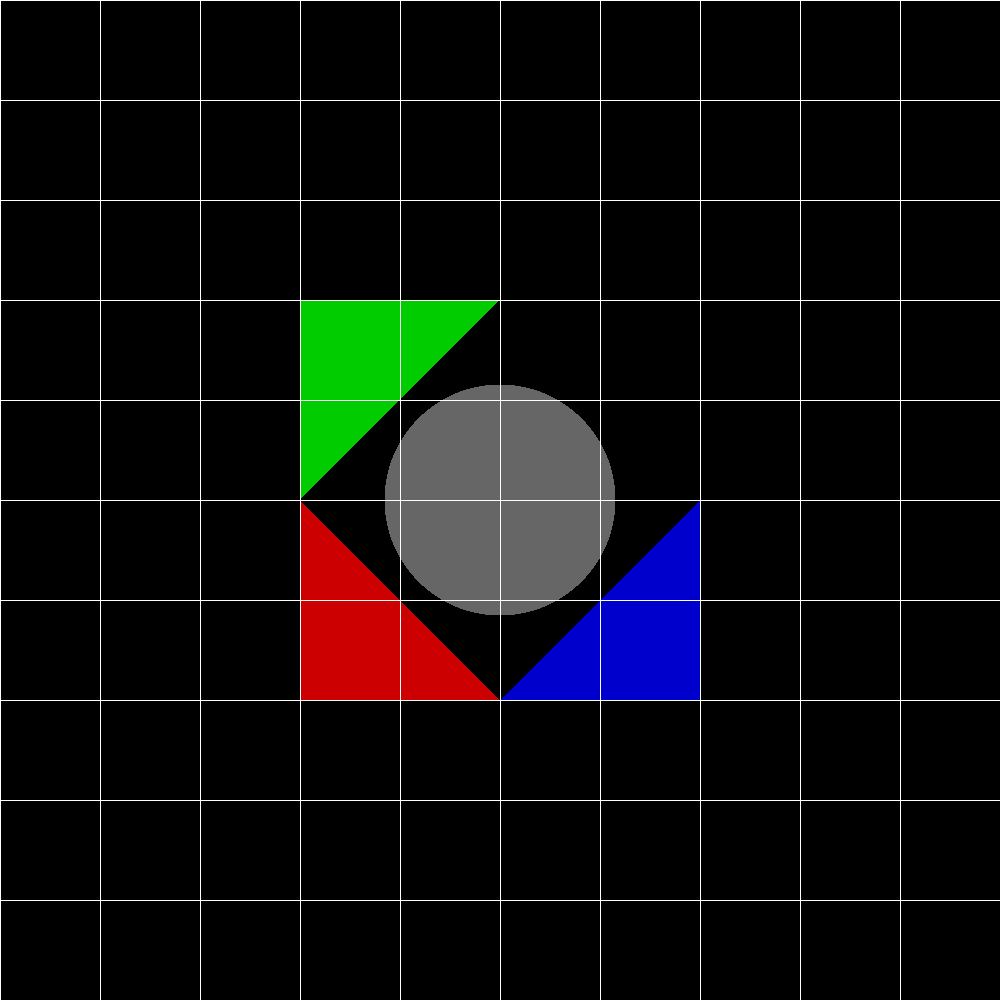
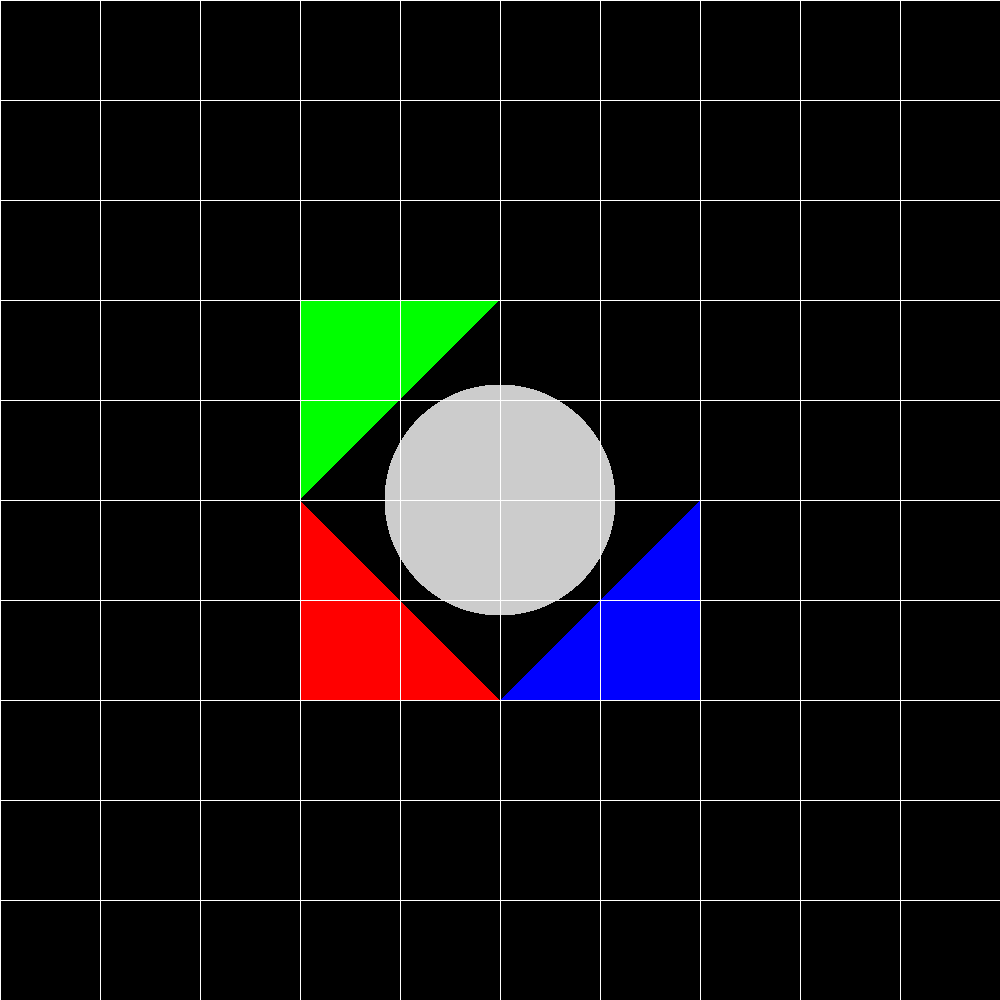
stage 6 wuthout commend

Changed region(s): [[0.279, 0.279, 0.713, 0.713]]

diff --git a/src/renderer/SimpleRayTracer.java b/src/renderer/SimpleRayTracer.java
@@ -9,6 +9,8 @@ import scene.Scene;
 import java.util.LinkedList;
 import java.util.List;
 
+import static primitives.Util.alignZero;
+
 /**
  * A basic ray tracer that computes the color of the closest intersection point of a ray with scene geometries.
  */
@@ -45,38 +47,52 @@ public class SimpleRayTracer extends RayTracerBase {
         Intersection closestintersection = ray.findClosestIntersection(intersections);
 
         // Return the color at the closest intersection point
-        return calcColor(closestintersection);
+        return calcColor(closestintersection,ray);
     }
-
 
     /**
-     * Calculates the color at a given point.
-     * Currently returns only the ambient light intensity as a placeholder.
+     * Calculates the color at the intersection point.
      *
-     * @param intersection the point at which to calculate color
-     * @return the ambient light color at the given point
+     * @param intersection the intersection object
+     * @param ray          the ray that hit the object
+     * @return the color at the intersection point
      */
-    private Color calcColor(Intersection intersection) {
-        Double3 k=intersection.geometry.getMaterial().Ka;
-        return scene.ambientLight.getIntensity().scale(k).add(intersection.geometry.getEmission());
+    private Color calcColor(Intersection intersection, Ray ray) {
+        // Preprocess data: set normal, ray direction, dot product
+        if (!preprocessIntersection(intersection, ray.getDirection()))
+            return Color.BLACK; // No local effects → return black
+
+        Double3 kA = intersection.geometry.getMaterial().Ka;
+        Color c = scene.ambientLight.getIntensity().scale(kA);
+
+        c = c.add(calcColorLocalEffects(intersection));
+
+        return c;
+        // Start with ambient light + emission
+//        Color color = scene.ambientLight.getIntensity()
+//                .scale(intersection.material.Ka)
+//                .add(calcColorLocalEffects(intersection));
+//
+//        return color;
     }
+
+
 /// need check
     public boolean preprocessIntersection(Intersection intersection, Vector rayDir) {
-        intersection.rayDir = rayDir;
+        intersection.rayDir = rayDir.scale(-1);
         intersection.normal = intersection.geometry.getNormal(intersection.point);
-        intersection.scaleNR = intersection.normal.dotProduct(rayDir);
-        if (Util.isZero( intersection.scaleNR ))
+        //intersection.scaleNR = intersection.normal.dotProduct(rayDir);
+        intersection.scaleNR = alignZero(intersection.rayDir.dotProduct(intersection.normal));
+        if (intersection.scaleNR == 0)
             return false;
-      return true;
+        return true;
     }
 
     public boolean setLightSource(Intersection intersection, LightSource lightSource) {
         intersection.lightSource = lightSource;
         intersection.lightDir = lightSource.getL(intersection.point).normalize();
-        intersection.scaleNL=intersection.lightDir.dotProduct(intersection.normal);
-        if (Util.isZero(intersection.scaleNL))
-            return false;
-        return true;
+        intersection.scaleNL = alignZero(intersection.lightDir.dotProduct(intersection.normal));
+        return (intersection.scaleNL * intersection.scaleNR > 0);
     }
 
     /**
@@ -86,22 +102,28 @@ public class SimpleRayTracer extends RayTracerBase {
      * @return the local lighting color contribution
      */
     private Color calcColorLocalEffects(Intersection intersection) {
-        Color result = intersection.geometry.getEmission();
-
-        for (var l : scene.light) {
-            if (!setLightSource(intersection, l))
-                continue;
-
-            Color lightIntensity = l.getIntensity (intersection.point);
-            Double3 diffusive = calcDiffusive(intersection);
-            Double3 specular = calcSpecular(intersection);
-            Double3 totalComponents = diffusive.add(specular);
-
-            Color contribution = lightIntensity.scale(totalComponents);
-            result = result.add(contribution);
+        if (intersection == null) {
+            return scene.backgroundColor;
         }
+        Material material = intersection.material;
+        Color color = intersection.geometry.getEmission();
 
-        return result;
+        color = color.add(scene.ambientLight.getIntensity().scale(material.Ka));
+
+        for (LightSource lightSource : scene.light) {
+            {
+                if(!setLightSource(intersection, lightSource)) {
+                    continue;
+                }
+
+                // Compute light intensity at the intersection point
+                Color iL = lightSource.getIntensity(intersection.point);
+
+                // Add contribution from diffusive and specular effects
+                color = color.add(iL.scale(calcDiffusive(intersection))).add(iL.scale(calcSpecular(intersection)));
+            }
+        }
+        return color;
     }
     /**
      * Calculates the specular component of the light at the intersection point.
@@ -113,17 +135,11 @@ public class SimpleRayTracer extends RayTracerBase {
         Vector n = intersection.normal;
         Vector l = intersection.lightDir;
         Vector v = intersection.rayDir.normalize(); // inverse of ray direction
+        Vector r = l.subtract(n.scale(2 * intersection.scaleNL));
+        double rv = Math.max(0, (r.dotProduct(v) * -1));
+        double specularFactor = Math.pow(rv, intersection.material.nSh);
 
-        // Calculate reflection vector R = L - 2 * (N·L) * N
-        Vector r = l.subtract(n.scale(2 * intersection.scaleNL)).normalize();
-
-        // Calculate R·V (viewer direction)
-        double rv = r.dotProduct(v);
-        if (rv <= 0)
-            return Double3.ZERO; // no specular if angle > 90 degrees
-
-        // Calculate specular component: kS * (R·V)^nShininess
-        return intersection.material.Ks.scale(Math.pow(rv, intersection.material.nSh));
+        return intersection.material.Ks.scale(specularFactor);
     }
     /**
      * Calculates the diffusive component of the light at the intersection point.
@@ -132,8 +148,13 @@ public class SimpleRayTracer extends RayTracerBase {
      * @return the diffusive component as Double3
      */
     private Double3 calcDiffusive(Intersection intersection) {
-        // According to Phong model: kD * max(0, N·L)
-        double nl = Math.max(0, intersection.scaleNL); // ensure non-negative
-        return intersection.material.Kd.scale(nl);
+        if (intersection.scaleNL < 0) {
+            return intersection.material.Kd.scale(intersection.scaleNL * -1);
+        }
+        return intersection.material.Kd.scale(intersection.scaleNL);
     }
+
+
+
+
 }

diff --git a/unittest/primitives/LightsTests.java b/unittest/primitives/LightsTests.java
@@ -10,6 +10,8 @@ import renderer.Camera;
 import renderer.RayTracerType;
 import scene.Scene;
 
+import javax.imageio.ImageWriter;
+
 /**
  * Test rendering a basic image
  * @author Dan Zilberstein
@@ -199,6 +201,47 @@ class LightsTests {
          .build() //
          .renderImage() //
          .writeToImage("lightTrianglesSpotSharp");
+   }
+
+
+
+   /// /////////////////////////////////////////////////////////
+   /** Produce a picture of a sphere lighted by multiple light sources */
+   @Test
+   void sphereMultipleLights() {
+      scene1.geometries.add(sphere);
+
+      // Adding multiple light sources
+      scene1.light.add(new DirectionalLight(sphereLightColor, sphereLightDirection));
+      scene1.light.add(new PointLight(new Color(500, 300, 0), new Point(50, -50, 25))
+              .setKL(0.001).setKQ(0.0002));
+      scene1.light.add(new SpotLight(new Color(200, 500, 300), new Point(-50, -50, 25), new Vector(1, 1, -0.5))
+              .setKL(0.001).setKQ(0.0001).setNarrowBeam(10.0));
+
+      // Rendering the image
+      camera1.setResolution(500, 500) //
+              .build() //
+              .renderImage() //
+              .writeToImage("lightSphereMultiple");
+   }
+
+   /** Produce a picture of two triangles lighted by multiple light sources */
+   @Test
+   void trianglesMultipleLights() {
+      scene2.geometries.add(triangle1, triangle2);
+
+      // Adding multiple light sources
+      scene2.light.add(new DirectionalLight(trianglesLightColor, trianglesLightDirection));
+      scene2.light.add(new PointLight(new Color(500, 300, 0), new Point(20, 30, -100))
+              .setKL(0.001).setKQ(0.0002));
+      scene2.light.add(new SpotLight(new Color(200, 500, 300), new Point(-30, 10, -100), new Vector(-2, -2, -2))
+              .setKL(0.001).setKQ(0.0001).setNarrowBeam(10.0));
+
+      // Rendering the image
+      camera2.setResolution(500, 500) //
+              .build() //
+              .renderImage() //
+              .writeToImage("lightTrianglesMultiple");
    }
 
 }

diff --git a/src/geometries/Intersectable.java b/src/geometries/Intersectable.java
@@ -15,7 +15,6 @@ import java.util.List;
 public abstract class Intersectable {
 
 
-
     /**
      * Finds the intersections of the object with the specified ray.
      *
@@ -23,13 +22,13 @@ public abstract class Intersectable {
      * @return a list of intersection points, or {@code null} if there are no intersections
      */
     //public abstract List<Point> findIntersections(Ray ray);
-
-    public  List<Point> findIntersections(Ray ray) {
+    public List<Point> findIntersections(Ray ray) {
         var list = calculateIntersections(ray);
         return list == null ? null : list.stream().map(intersection -> intersection.point).toList();
     }
 
-    protected abstract List<Intersection> calculateIntersectionsHelper(Ray ray);
+    protected List<Intersection> calculateIntersectionsHelper(Ray ray)
+    {return null;};
 
     public final List<Intersection> calculateIntersections(Ray ray) {
         return calculateIntersectionsHelper(ray);

diff --git a/src/lighting/SpotLight.java b/src/lighting/SpotLight.java
@@ -31,6 +31,7 @@ public class SpotLight extends PointLight {
     public Color getIntensity(Point point) {
         Vector l = getL(point);
         double dir = l.dotProduct(direction.scale(-1));
+
         double intensity = Math.max(0, dir);
         intensity = Math.pow(intensity, narrowBeam);
         return super.getIntensity(point).scale(intensity);
@@ -44,4 +45,13 @@ public class SpotLight extends PointLight {
         this.narrowBeam = narrowBeam;
         return this;
     }
+    @Override
+    public Vector getL(Point point) {
+
+        return position.subtract(point).normalize();
+    }
+//@Override
+//public Vector getL(Point point) {
+//    return point.subtract(position).normalize(); // כיוון מנקודה למקור
+//}
 }

diff --git a/src/lighting/AmbientLight.java b/src/lighting/AmbientLight.java
@@ -20,7 +20,7 @@ public class AmbientLight extends Light {
      * @param IA The intensity of the ambient light.
      */
     public AmbientLight(Color IA, double kA) {
-        super(IA);
+        super(IA);//בונוס
     }
     public AmbientLight(Color IA) {
         super(IA);

diff --git a/src/lighting/PointLight.java b/src/lighting/PointLight.java
@@ -44,6 +44,6 @@ public class PointLight extends Light implements LightSource{
     @Override
     public Vector getL(Point point) {
 
-        return point.subtract(position).normalize().scale(-1);
+        return position.subtract(point).normalize();
     }
 }

diff --git a/src/lighting/DirectionalLight.java b/src/lighting/DirectionalLight.java
@@ -21,6 +21,7 @@ public class DirectionalLight extends Light implements LightSource{
     @Override
     public Vector getL(Point p) {
         return direction.normalize().scale(-1);
+        //return direction.normalize();
     }
 }
 
